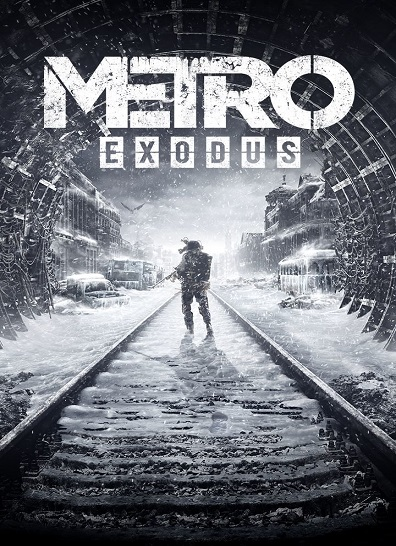
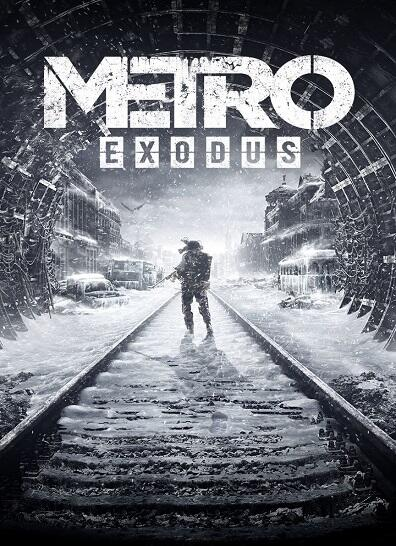
Image format
All png image converted to jpg

diff --git a/script/script.js b/script/script.js
@@ -56,7 +56,7 @@ $("#first").click(function(){
 
         showAuthorInfo();
         selected.removeClass("flip-vertical-left");
-        selected.css("background","url('pic/books/first.png')");
+        selected.css("background","url('pic/books/first.jpg')");
         selected.css("backgroundSize","cover");
         $("#first_book_description").hide();
 
@@ -64,7 +64,7 @@ $("#first").click(function(){
 
         hideAuthorInfo();
         selected.addClass("flip-vertical-left");
-        selected.css("background","url('pic/books/first-bg.png')");
+        selected.css("background","url('pic/books/first-bg.jpg')");
         selected.css("backgroundSize","cover");
         $("#first_book_description").show();
 
@@ -79,7 +79,7 @@ $("#second").click(function() {
 
         showAuthorInfo();
         selected.removeClass("flip-vertical-left");
-        selected.css("background","url('pic/books/second.png')");
+        selected.css("background","url('pic/books/second.jpg')");
         selected.css("backgroundSize","cover");
         $("#second_book_description").hide();
         
@@ -87,7 +87,7 @@ $("#second").click(function() {
 
         hideAuthorInfo();
         selected.addClass("flip-vertical-left");
-        selected.css("background","url('pic/books/second-bg.png')");
+        selected.css("background","url('pic/books/second-bg.jpg')");
         selected.css("backgroundSize","cover");
         $("#second_book_description").show();
 
@@ -102,7 +102,7 @@ $("#third").click(function() {
 
         showAuthorInfo();
         selected.removeClass("flip-vertical-left");
-        selected.css("background","url('pic/books/third.png')");
+        selected.css("background","url('pic/books/third.jpg')");
         selected.css("backgroundSize","cover");
         $("#third_book_description").hide();
 
@@ -110,7 +110,7 @@ $("#third").click(function() {
 
         hideAuthorInfo();
         selected.addClass("flip-vertical-left");
-        selected.css("background","url('pic/books/third-bg.png')");
+        selected.css("background","url('pic/books/third-bg.jpg')");
         selected.css("backgroundSize","cover");
         $("#third_book_description").show();
 
@@ -131,7 +131,7 @@ $("#firstGame").click(function(){
     if(flipped) {
 
         selected.removeClass("flip-vertical-left");
-        selected.css("background","url('pic/games/first.png')");
+        selected.css("background","url('pic/games/first.jpg')");
         selected.css("backgroundSize","cover");
         selected.css("opacity","1");
         $("#first_game_description").hide();
@@ -139,7 +139,7 @@ $("#firstGame").click(function(){
     } else {
 
         selected.addClass("flip-vertical-left");
-        selected.css("background","url('pic/games/first.png')");
+        selected.css("background","url('pic/games/first.jpg')");
         selected.css("backgroundSize","cover");
         selected.css("opacity","0.5");
         $("#first_game_description").show();

diff --git a/css/style.css b/css/style.css
@@ -180,17 +180,17 @@ main div {
 
 #first {
 
-    background: url(../pic/books/first.png);
+    background: url(../pic/books/first.jpg);
     
 }
 #second {
 
-    background: url(../pic/books/second.png);
+    background: url(../pic/books/second.jpg);
 
 }
 #third {
 
-    background: url(../pic/books/third.png);
+    background: url(../pic/books/third.jpg);
 
 }
 #first, #second, #third, #firstGame, #secondGame, #thirdGame {
@@ -207,7 +207,7 @@ main div {
 }
 
 #firstGame {
-    background: url(../pic/games/first.png);
+    background: url(../pic/games/first.jpg);
     background-size: cover;
 }
 #secondGame {
